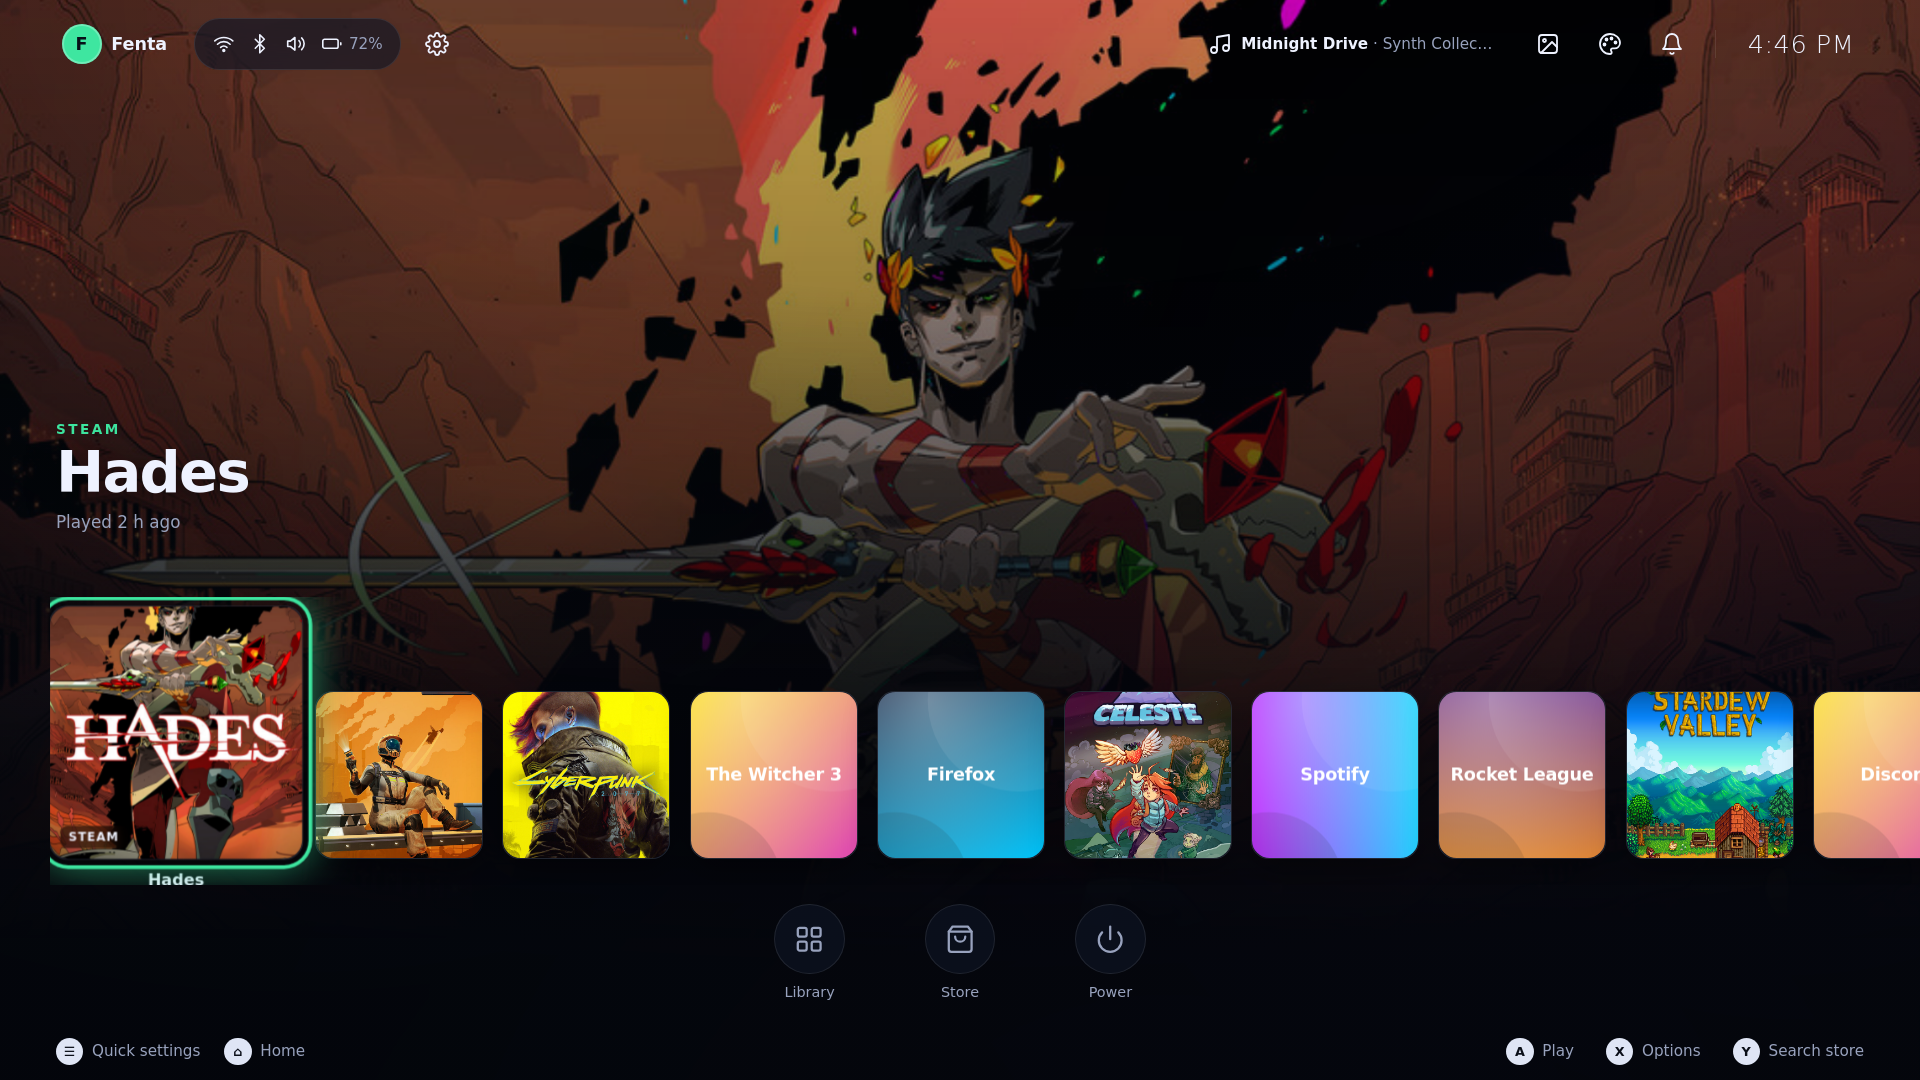
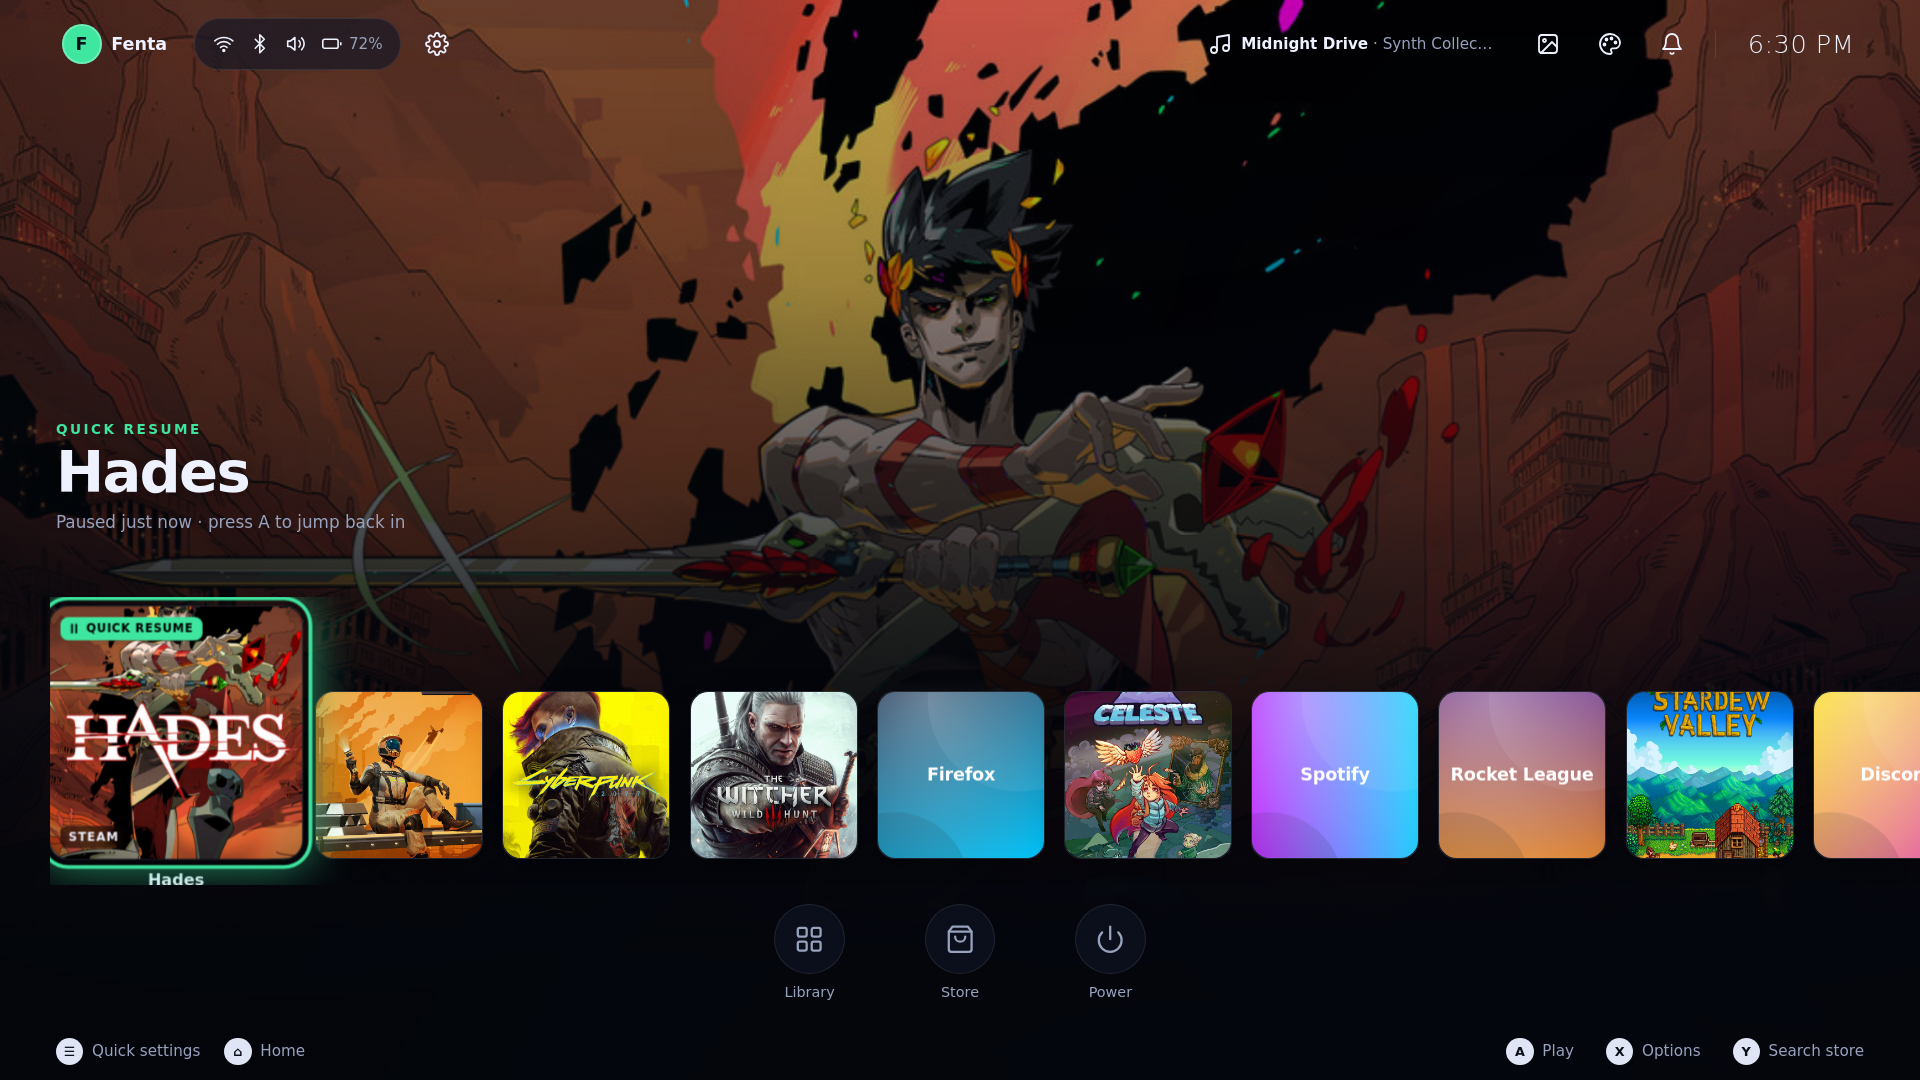
README: new screenshots of every screen, including the new features
Fresh shots from the UI screenshots workflow (mock data, real Steam art):
Quick Resume, the Proton picker, game settings, Saves & captures and
automatic updates, plus sign-in, Quick Settings, accounts and the store
shown inline instead of as links. The PS5 note now says CI builds it.

Claude-Session: https://claude.ai/code/session_01Eooho2EMAxAs9XFym4wrzj

diff --git a/README.md b/README.md
@@ -5,7 +5,7 @@ Think of the Xbox 360 blades, rebuilt for today: dark glass panels that slide
 in from the edges, big tiles, one accent colour, and no desktop. It works with
 a controller, a mouse, or a keyboard.
 
-![Home, with the focused game's art as the background](docs/screenshots/home-game-art.png)
+![Home, with Hades paused in Quick Resume and its art as the background](docs/screenshots/home-game-art.png)
 
 > **Status: early and mostly untested on real hardware.** The shell is
 > developed and screenshotted against mock data in a browser, the ISO is built
@@ -19,6 +19,8 @@ a controller, a mouse, or a keyboard.
 Quick Settings (Wi-Fi, Bluetooth, sound, brightness, battery, airplane mode)
 and the Settings gear. The right side is for fun: the music player,
 screenshot album, themes, notifications and the clock.
+
+![Quick Settings](docs/screenshots/quick-settings.png)
 
 **Home** shows your 15 most recent games and apps in one row, followed by an
 *All software* tile. The dock below it has Library, Store and Power.
@@ -50,6 +52,11 @@ you pick a different Proton for that game, or a custom build such as GE-Proton. 
 Wine prefix under `~/Games/Prefixes/`. Plain Wine is installed too, for the
 odd game that runs better outside Proton.
 
+<p>
+  <img src="docs/screenshots/accounts.png" width="49%" alt="Library › Accounts">
+  <img src="docs/screenshots/choose-proton.png" width="49%" alt="Picking a Proton version for a Steam game">
+</p>
+
 **Game settings** (a game's details › Game settings) gives each game its own
 frame rate cap (30 to 120 FPS), power mode (Performance, Balanced, or Quiet
 and battery saver) and button layout (swap A/B, X/Y, bumpers and triggers, or
@@ -72,12 +79,21 @@ don't survive a restart or signing out, and online games may drop their
 connection while paused. Apps such as music players keep running when you go
 Home.
 
+![Quick Resume: a paused game's options](docs/screenshots/quick-resume.png)
+
 **Store** searches Flathub and the Snap Store at the same time and merges the
 results. An app that is in both shows once, preferring Flatpak. The app page
 has the icon, description, screenshots and which source it installs from.
 
+<p>
+  <img src="docs/screenshots/store.png" width="49%" alt="Store">
+  <img src="docs/screenshots/store-app.png" width="49%" alt="Store app page">
+</p>
+
 **Sign-in** is a PS5-style "Who's playing?" user picker with avatars and an
 optional PIN or password, running on greetd.
+
+![Sign-in](docs/screenshots/sign-in.png)
 
 **Screenshots and clips** work from the controller, even in a game. Guide + RB
 takes a screenshot and Guide + LB saves the last 30 seconds as a clip (on an
@@ -91,6 +107,8 @@ For Epic and GOG games, Lumen pulls your saves before the game starts and
 uploads them once it (and everything in its Wine prefix) has exited, with
 `legendary sync-saves` and `gogdl save-sync`. Settings › Saves & captures has
 the switch and a Sync now button.
+
+![Settings › Saves & captures](docs/screenshots/saves-captures.png)
 
 **System update** (Settings › System update) updates the OS, the Lumen shell
 and your Flatpak and Snap apps in place, without reinstalling. Games, saves
@@ -141,12 +159,8 @@ HTML, CSS and ES modules in a Chromium kiosk, backed by `lumend`, a small
 Python daemon (standard library only). See
 [docs/ROADMAP.md](docs/ROADMAP.md) for the architecture.
 
-More screenshots: [sign-in](docs/screenshots/01-sign-in.png),
-[Quick Settings](docs/screenshots/05-quick-settings.png),
-[accounts](docs/screenshots/11-accounts.png),
-[store](docs/screenshots/13-store.png),
-[store app page](docs/screenshots/14-store-app.png),
-[on-screen keyboard](docs/screenshots/17-onscreen-keyboard.png).
+Anywhere you can type, a controller brings up an
+[on-screen keyboard](docs/screenshots/onscreen-keyboard.png).
 
 ## Download
 
@@ -200,7 +214,7 @@ CI also checks the following on its own:
 | --- | --- |
 | **Build ISO** | Runs `make test`, builds the ISO in an Arch container, publishes the `[lumen]` pacman repo (on `main`), then boots the ISO in QEMU and screenshots it to the `vm-screenshots` branch |
 | **Build PS5 image** | Builds the ps5-linux kernel package (cached per pinned commit) and the USB image. Nothing boots it, since it needs a real console |
-| **UI screenshots** | On pull requests that touch the shell, runs `lumend` with mock data and screenshots every screen with Playwright to the `ui-screenshots` branch |
+| **UI screenshots** | On pull requests that touch the shell, runs `lumend` with mock data and screenshots every screen with Playwright to the `ui-screenshots` branch. The files are named like the ones in `docs/screenshots`, so refreshing the README's images is a copy |
 
 The installer screens can be rendered without Calamares or Arch:
 
@@ -265,9 +279,8 @@ Not tested yet:
   covered by unit tests, but switching between the shell and a game relies on
   gamescope's focus properties and has not been tried on a real session yet.
   Steam may also keep the Guide button for its own overlay.
-- **The PS5 image.** No CI build of it has finished successfully yet (the
-  first build of the current `main` was still running when this was
-  written), and no one has booted it on a PS5.
+- **The PS5 image.** CI builds it, but nothing boots it there and no one
+  has tried it on a PS5 yet.
 
 Reports from real hardware are very welcome.
 
